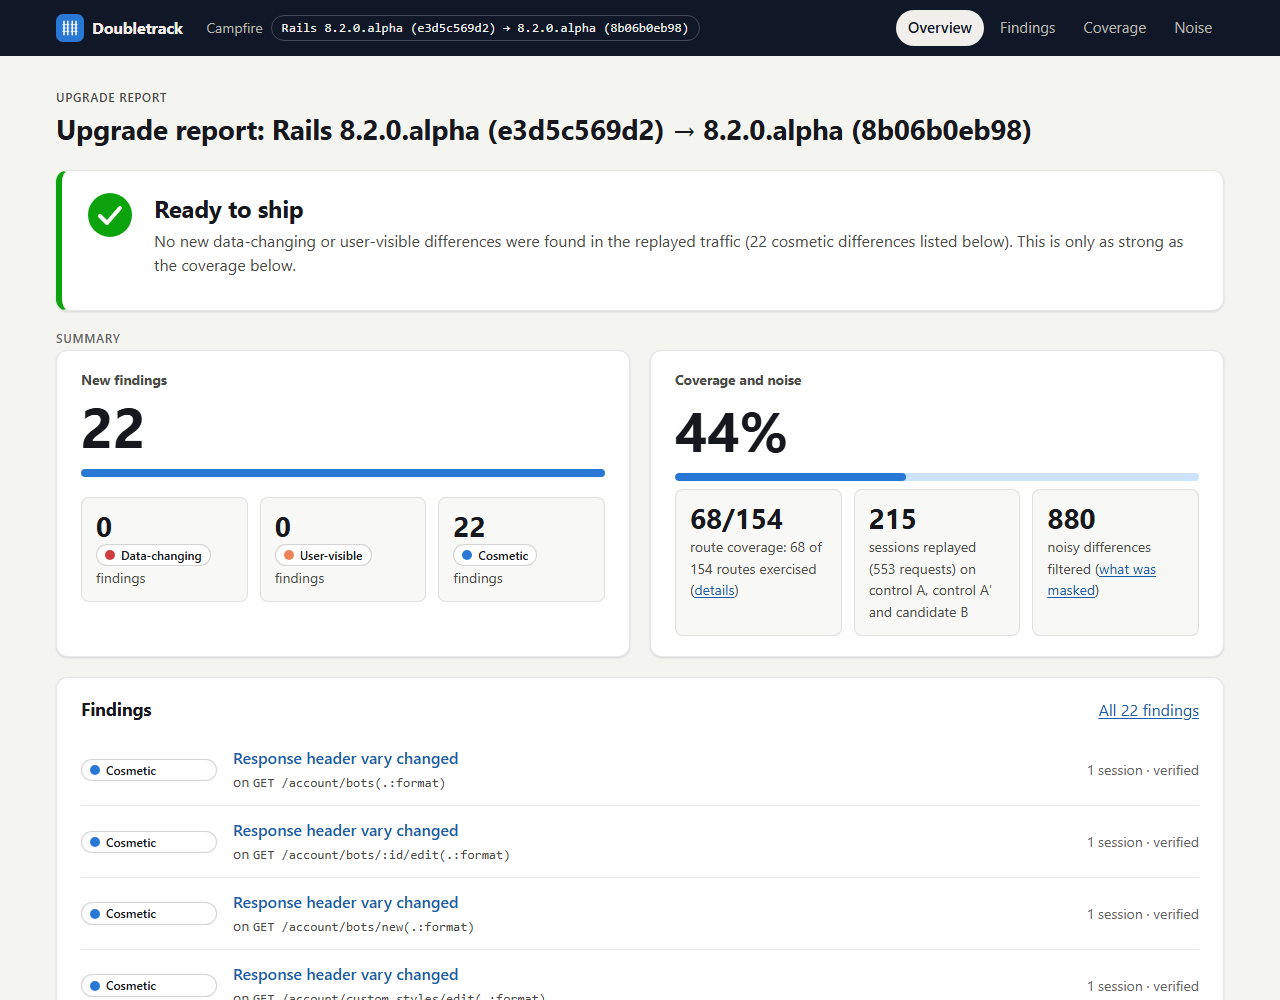
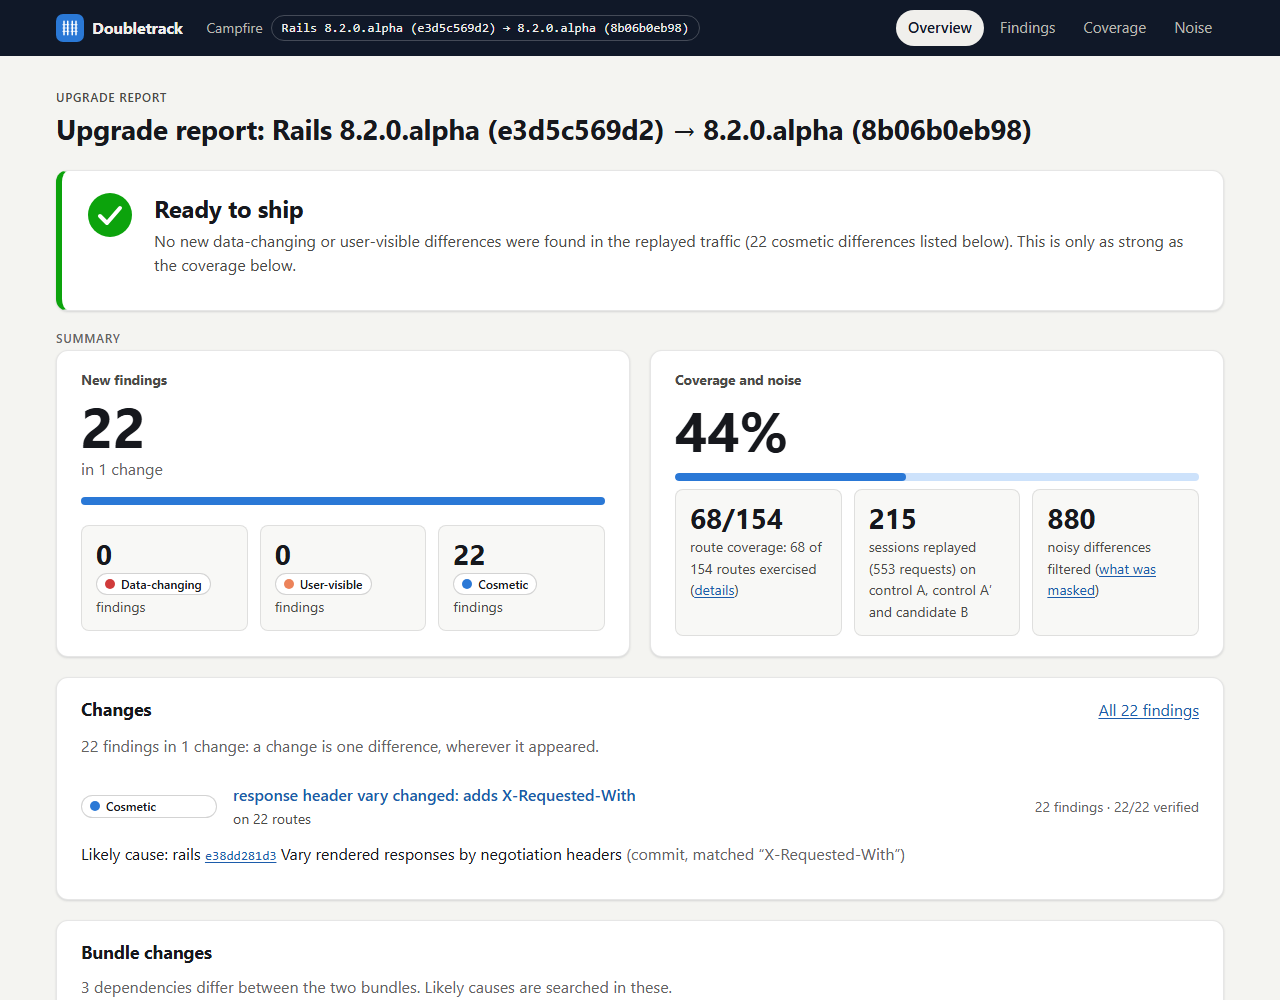
docs: README screenshot shows changes and likely causes

diff --git a/README.md b/README.md
@@ -15,7 +15,7 @@ Doubletrack boots your app on the current and the next Rails side by side, repla
 same traffic through both, and reports every difference in behavior. Each finding comes
 with a generated test that passes on today's Rails and fails on the next one.
 
-<a href="https://joshblazer.github.io/doubletrack/campfire-pr423/"><img src="docs/images/report-overview.png" alt="Doubletrack report for once-campfire PR #423: Ready to ship, 22 cosmetic findings, 0 data-changing, 0 user-visible, route coverage 68 of 154" width="100%"></a>
+<a href="https://joshblazer.github.io/doubletrack/campfire-pr423/"><img src="docs/images/report-overview.png" alt="Doubletrack report for once-campfire PR #423: Ready to ship, 22 cosmetic findings in 1 change with its likely cause, Rails commit e38dd281d3" width="100%"></a>
 
 <sub>The [published report](https://joshblazer.github.io/doubletrack/campfire-pr423/) for a real Rails upgrade, below.</sub>
 
